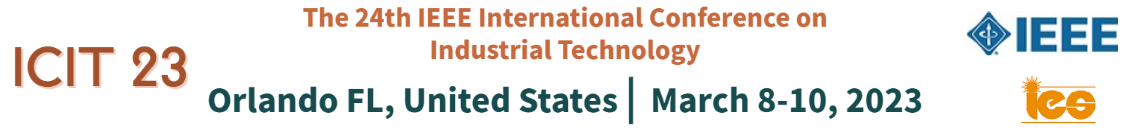
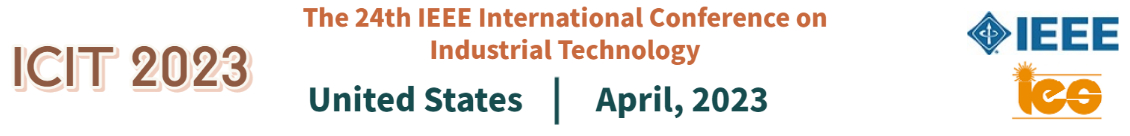
details page

Changed region(s): [[0.0, 0.3235, 0.8363, 0.9118], [0.8982, 0.4412, 0.9912, 0.9118], [0.8363, 0.1176, 0.9912, 0.4118]]

diff --git a/indexReview.html b/indexReview.html
@@ -90,13 +90,15 @@ window.addEventListener("load", function(){
       </div>
     </div>
   </section>
+	
   <section id="content">
     <div class="container">
       <div class="row">
         <div class="col-lg-12">
           <div class="row">
             <div id="sideBar" class="col-lg-3"> </div>
-            <script>
+            <!--
+			  <script>
 
 
 
@@ -105,18 +107,23 @@ window.addEventListener("load", function(){
 
 
 							</script>
+-->
             <div class="col-lg-6">
               <div class="box">
                 <div class="box-gray aligncenter box-white">
-                  <h4>Welcome to the 24th IEEE International Conference on Industrial Technology<br><br> The ICIT 2023 </h4>
-                   <p style="text-align: center">
-                  <!--<a href="https://ieeetv.ieee.org/event-showcase/iecon-2018-showcase"> <img src="img/IEEEtv.PNG"/> </a> -->
-                  	
-                  </p>
+                  <h2><FONT COLOR="#FF0004"><strong>DETAILS COMING SOON!</strong></FONT></h2>
+<h4>&nbsp;</h4>
+<h4>Welcome to the 24th IEEE International Conference on Industrial Technology<br>
+                    <br>
+                  The ICIT 2023 </h4>
+<p style="text-align: center">
+  <!--<a href="https://ieeetv.ieee.org/event-showcase/iecon-2018-showcase"> <img src="img/IEEEtv.PNG"/> </a> -->
+  
+</p>
                   <p style="text-align: justify">
                   	IEEE ICIT is one of the flagship conferences of the IEEE Industrial Electronics Society, devoted to the dissemination of new ideas, research and works in progress within the fields of intelligent and computer control systems, robotics, factory communications and automation, flexible manufacturing, data acquisition and signal processing, vision systems, and power electronics.<br>
 
-On behalf of the IEEE Industrial Electronics Society, we warmly welcome all of you to ICIT 2023, March 8-10, 2023 in the Orlando FL, USA.<br>
+On behalf of the IEEE Industrial Electronics Society, we warmly welcome all of you to ICIT 2023.&nbsp; &nbsp; &nbsp; &nbsp;&nbsp;<br>
 <!--
 This year’s IECON is brings a selection of over 1,000 papers, a record-breaking number of papers and attendees of all IECON conferences held in U.S. Papers were topically accepted through 15 technical tracks and 60 special sessions.<br>
 
@@ -186,7 +193,7 @@ We would like to thank numerous volunteers and sponsors that have made IECON 201
                -->
 </p>
   <p style="text-align: left">
-  	See you at ICIT 2023 in Orlando FL, USA, from March 8-10, 2023!<br>
+  	See you at ICIT 2023 in  USA !<br>
 
 With kind regards,<br><br>
   	

diff --git a/sidebar.html b/sidebar.html
@@ -76,7 +76,7 @@
 
 
 
-									<li class="navlink"><i class="icon-angle-right"></i><a href="index.html">Home</a></li>
+									<li class="navlink"><i class="icon-angle-right"></i><a href="indexReview.html">Home</a></li>
 									<!--
 									<li class="navlink"><i class="icon-angle-right"></i><a href="welcome.html">Welcome</a></li>
 									-->

diff --git a/slider.html b/slider.html
@@ -73,7 +73,7 @@
 
 										<h3>LATEST NEWS</h3>
 									<p> 
-										 Welcome to ICIT 2023 webpage<br>
+										 DETAILS COMING SOON&nbsp;&nbsp;<br>
 										</a>
 										</p>
 <!--
